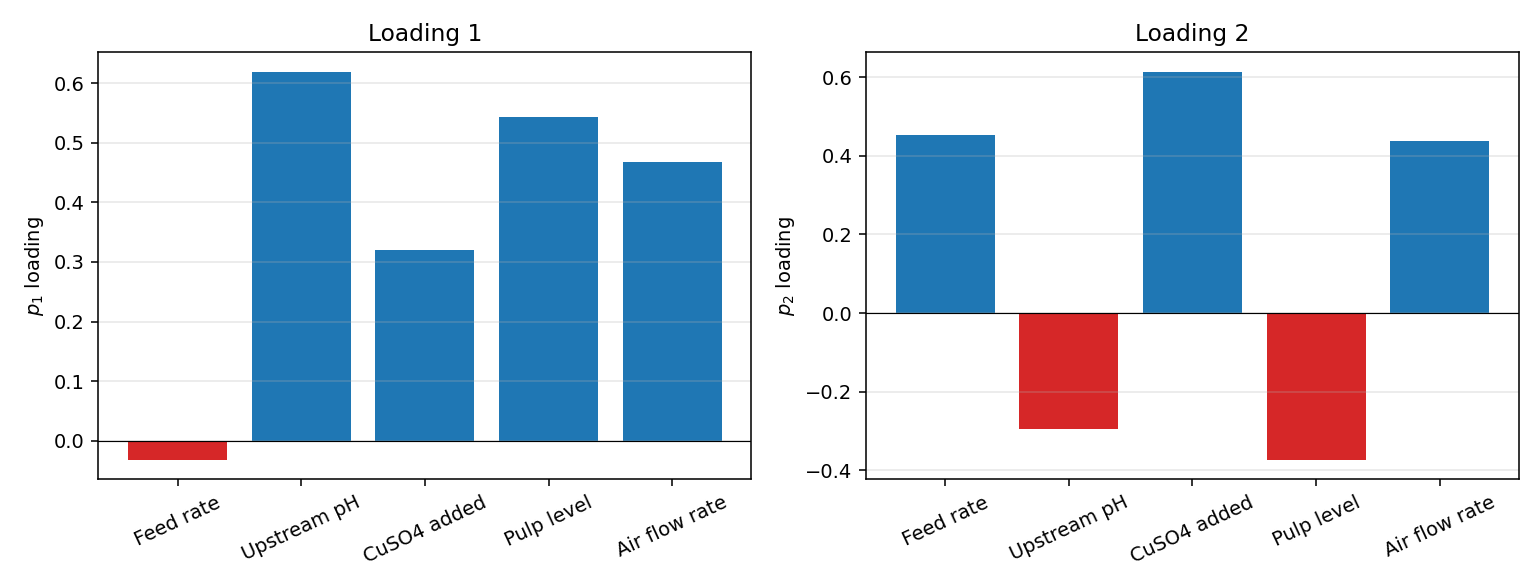
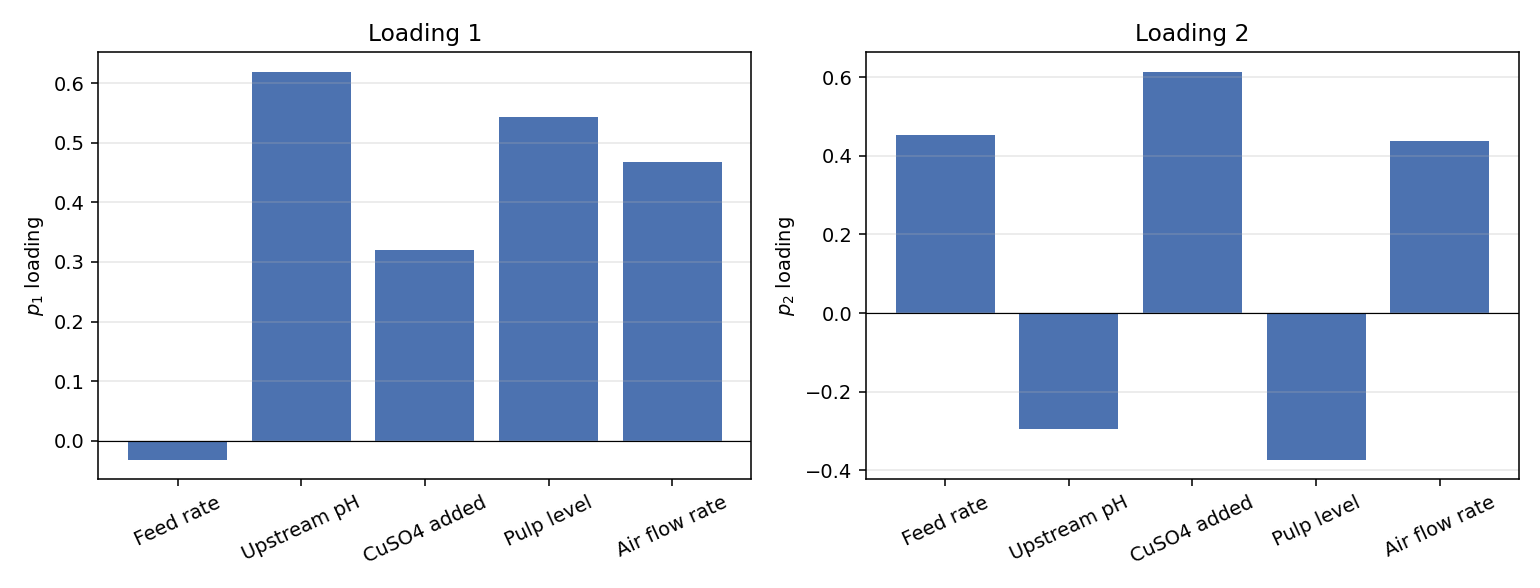
Loadings bars: drop sign-based red/blue, use one neutral colour
Per-bar colouring by sign was visually loud and could be mis-read as encoding good vs bad. The sign is already conveyed by the bar's position relative to the zero line; the colour was redundant. Switch to a single neutral steel-blue (#4c72b0) for all bars in the p_1 / p_2 loadings panel of the flotation generator. Regenerate Flotation-MSPC-loadings.png. The four other Flotation-MSPC-*.png are regenerated byte-identically and not staged.

Changed region(s): [[0.0623, 0.1224, 0.4675, 0.7959], [0.561, 0.1224, 0.9662, 0.7959]]

diff --git a/monitoring/flotation_monitoring_case.py b/monitoring/flotation_monitoring_case.py
@@ -119,8 +119,7 @@ def figure_loadings(model, out: pathlib.Path) -> None:
     fig, axes = plt.subplots(1, 2, figsize=(11, 4.2), sharey=False)
     for k, ax in enumerate(axes):
         p = model.loadings_.iloc[:, k]
-        colors = ["#1f77b4" if v >= 0 else "#d62728" for v in p.values]
-        ax.bar(p.index, p.values, color=colors)
+        ax.bar(p.index, p.values, color="#4c72b0")
         ax.axhline(0, color="black", linewidth=0.6)
         ax.set_ylabel(f"$p_{k + 1}$ loading")
         ax.tick_params(axis="x", rotation=25)
